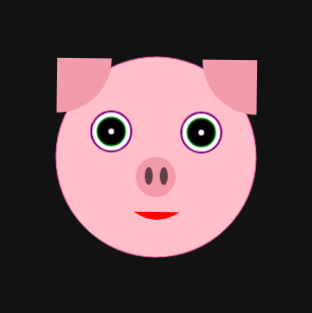
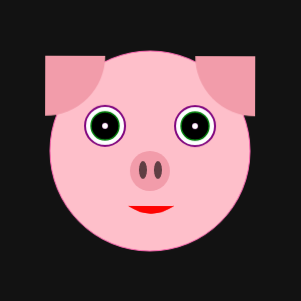
preloader, new-test-gemini, fix FF bugs

diff --git a/src/App.js b/src/App.js
@@ -3,6 +3,7 @@ import b_ from 'b_';
 
 import './App.css';
 import Toolbar from '../src/components/toolbar';
+import Preloader from '../src/components/preloader';
 import Field from '../src/components/gameField';
 import AppContext from '../src/components/context';
 
@@ -12,15 +13,23 @@ export default class App extends Component {
     state = {
         volume: 50
     };
+
+    componentDidMount() {
+        window.onload = () => setTimeout(() => this.setState({ isContentLoaded: true }), 1000);
+    }
+
     render() {
         const context = {
             ...this.state,
             onVolChange: this.onVolChange
         };
+
+        const { isContentLoaded } = this.state;
         
         return (
             <AppContext.Provider value={context}>
                 <div className={b()}>
+                    <Preloader isContentLoaded={isContentLoaded}/>
                     <Toolbar />
                     <Field />
                 </div>
@@ -28,7 +37,5 @@ export default class App extends Component {
         );
     }
 
-    onVolChange = ({ target: { value } }) => {
-        this.setState({ volume: value });
-    }
+    onVolChange = ({ target: { value } }) => this.setState({ volume: value });
 }

diff --git a/src/components/preloader/index.css b/src/components/preloader/index.css
@@ -1,0 +1,37 @@
+.preloader {
+    width: 100vw;
+    height: 100vh;
+    background-color: black;
+    z-index: 100;
+    position: fixed;
+    display: flex;
+    justify-content: center;
+    align-items: center;
+    font-size: 24px;
+}
+
+.preloader__text-chunk_animated {
+    animation: jump .7s ease-in-out 0s infinite;
+}
+
+@keyframes jump {
+    0% {
+        transform: scaleX(1);
+    }
+
+    15% {
+        transform: scaleX(1);
+    }
+
+    50% {
+        transform: scaleX(-1);
+    }
+
+    85% {
+        transform: scaleX(1);
+    }
+    
+    100% {
+        transform: scaleX(1);
+    }
+}

diff --git a/src/components/preloader/index.js b/src/components/preloader/index.js
@@ -1,0 +1,22 @@
+import React, { Component } from 'react';
+import b_ from 'b_';
+
+import './index.css';
+
+const b = b_.with('preloader');
+
+export default class Preloader extends Component {
+    render() {
+        const { isContentLoaded } = this.props;
+
+        return isContentLoaded ?
+        null :
+            <div className={b()}>
+                Стараюсь загруз
+                    <span className={b('text-chunk', { animated: true })}>
+                        и
+                    </span>
+                ться...
+            </div>
+    }
+}

diff --git a/src/components/ear/index.css b/src/components/ear/index.css
@@ -1,13 +1,17 @@
 .ear {
+    /* left: -110px; */
     position: absolute;
-    top: 82px;
-    transform: scale(1.4);
+    top: 55px;
+    /* transform: scale(1.4); */
 }
 
 .ear_side_left {
-    left: -110px;
+    left: 45px;
+    /* transform: scale(1.4, 1.4); */
 }
 
 .ear_side_right {
-    left: 110px;
+    right: 45px;
+    /* transform: scale(-1.4, 1.4); */
+    transform: scaleX(-1)
 }

diff --git a/src/components/ear/index.js b/src/components/ear/index.js
@@ -8,7 +8,7 @@ const b = b_.with('ear');
 const ear = (props) => {
 	const { side } = props;
 
-	return <img alt="ear" className={b({ side })} src={`/static/${side}-ear.svg`} />;
+	return <img alt="ear" className={b({ side })} src={`/static/ear.svg`} />;
 }
 
 export default ear;

diff --git a/gemini/tests.js b/gemini/tests.js
@@ -19,3 +19,9 @@ gemini.suite('game-button', function(suite) {
             actions.mouseDown(this.button);
         })
 });
+
+gemini.suite('.preloader', function(suite) {
+    suite.setUrl('/')
+        .setCaptureElements('.preloader')
+        .capture('plain');
+});
